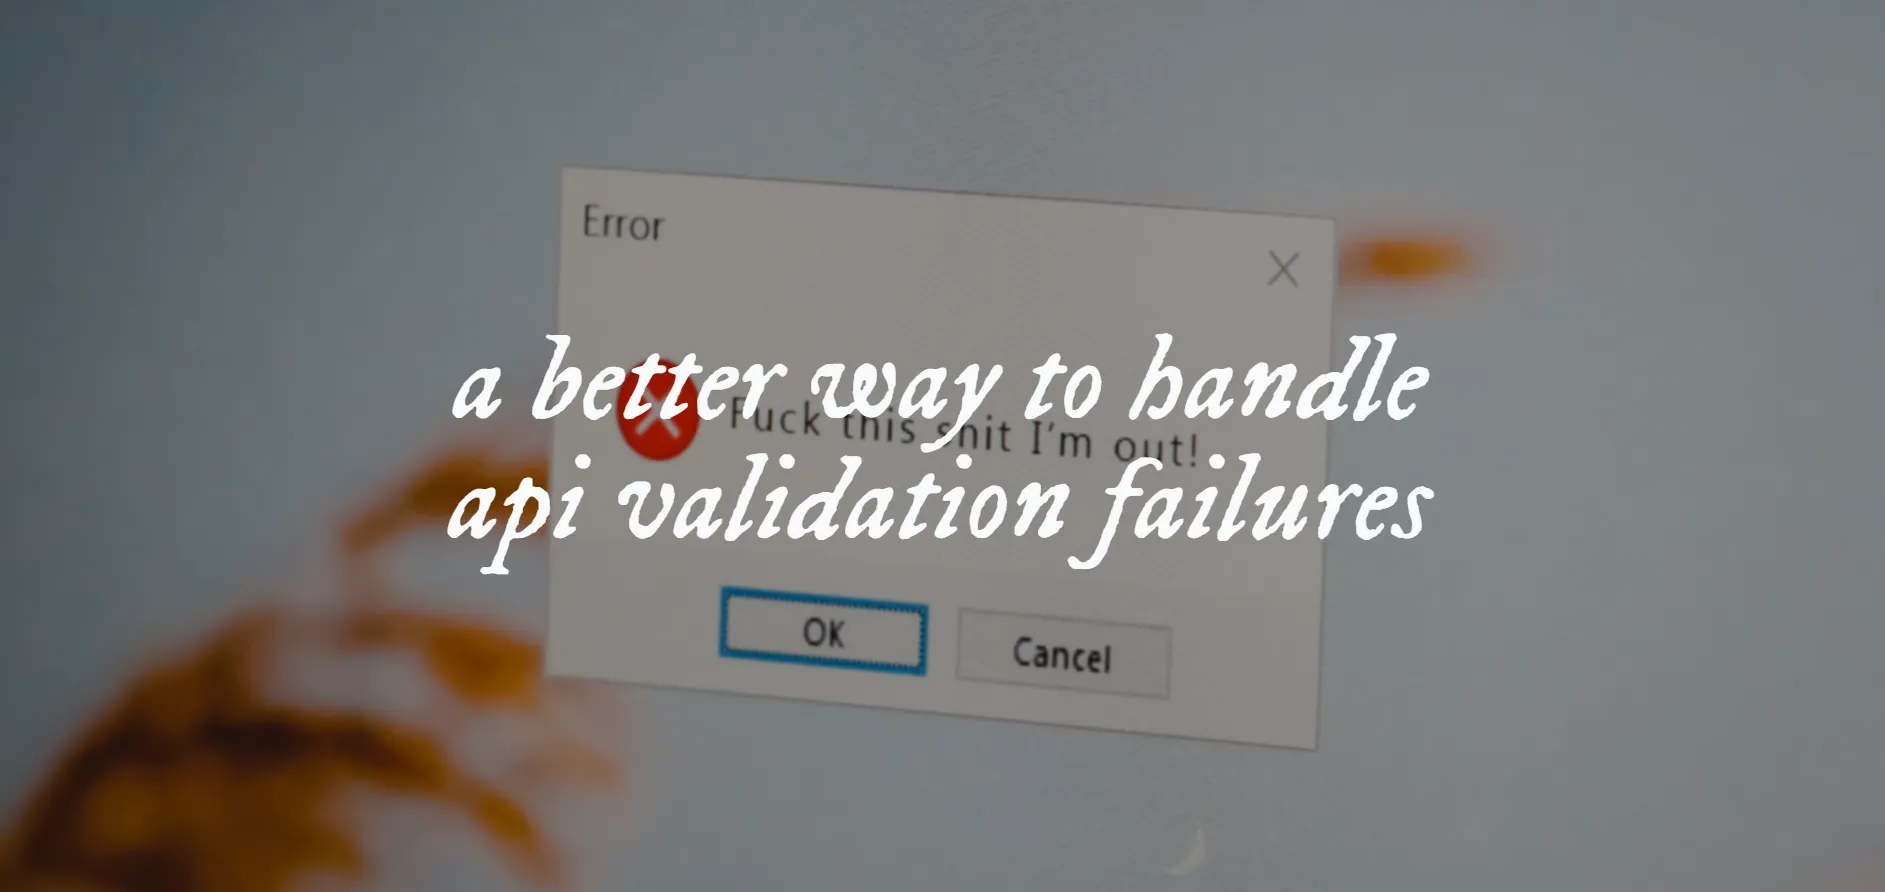
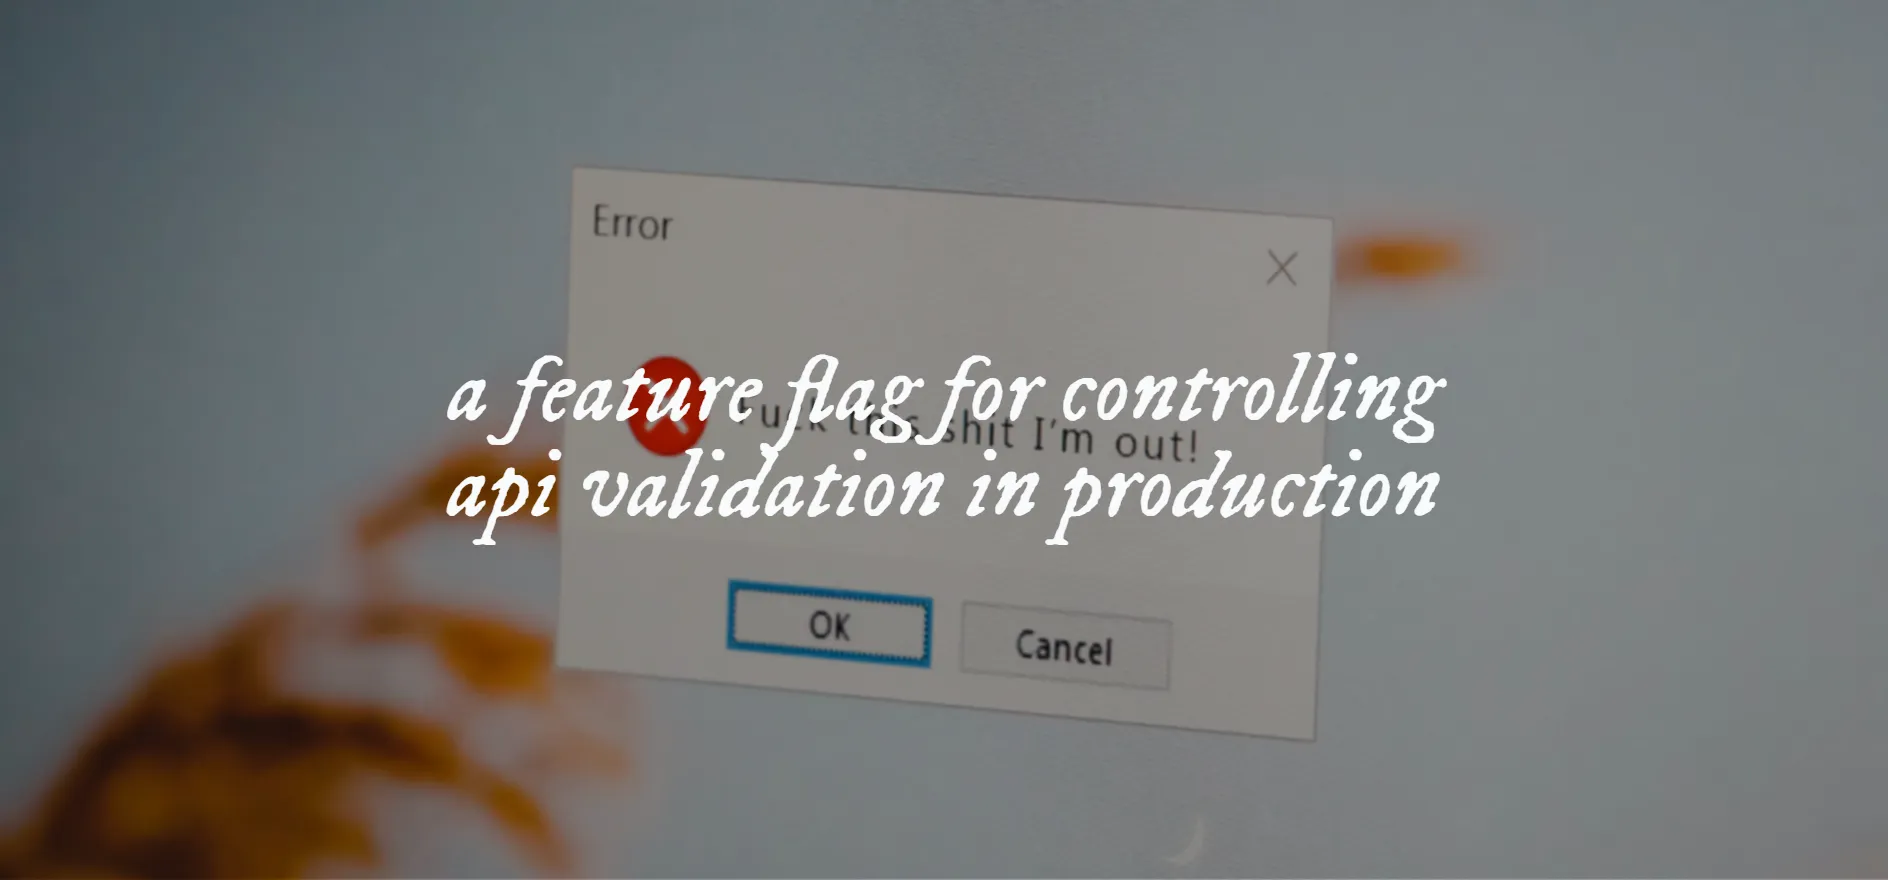
refactor: humanize and improve seo of some blogs

diff --git a/src/contents/blog/better-api-validation-failure-handling.md b/src/contents/blog/better-api-validation-failure-handling.md
@@ -1,16 +1,16 @@
 ---
-title: A Better Way to Handle API Validation Failures
+title: A Feature Flag for Controlling API Validation in Production
 image: ./images/better-api-validation-failure-handling.webp
-imageCaption: An image with the text "how a feature flag saved our api response validation"
+imageCaption: An image with the text "a feature flag for controlling api validation in production"
 imageCredit: Nong
 imageLink: https://unsplash.com/photos/a-close-up-of-a-computer-screen-with-a-sign-on-it-O_Xy25Dj7Mo
 description: One feature flag saved our team from production errors and midnight wake-ups
-metaDescription: How a simple feature flag helped us control API validation, prevent Zod errors in production, unblock clients instantly, and stop overnight wake-ups for trivial fixes.
+metaDescription: A simple feature flag to soft-disable API validation in production, unblock clients from Zod errors instantly, and avoid overnight wake-ups over trivial contract mismatches.
 publishedAt: 2025-12-10T14:42:30.714Z
 status: published
 ---
 
-API response validation sounds straightforward until it breaks in production at 3 AM. This is the story of how a simple feature flag saved my team from API validation errors, contract drift, and unnecessary midnight on-calls.
+API response validation sounds straightforward until it breaks in production at 3 AM. A simple feature flag is how my team stopped losing sleep over it.
 
 ## Building our frontend and the need for validation
 
@@ -18,7 +18,7 @@ In our frontend application, almost every API request targets our own internal b
 
 As the system grew, we introduced a new workflow that combined [Zod](https://zod.dev/) with a custom code generation tool. Instead of hand-maintaining io-ts schemas, the generator produced Zod schemas, data models, and API call functions all at once. 
 
-Moving to Zod and adopting codegen happened together, giving us cleaner types, more reliable validation, and a data layer that scaled without the constant risk of drifting out of sync. Or so we thought.
+Moving to Zod and adopting codegen happened together. The schemas were cleaner, easier to keep in sync, and we stopped hand-maintaining io-ts types. That mostly held up.
 
 ## When strict validation becomes a real problem
 
@@ -26,9 +26,7 @@ Zod is great, but strict validation has a dark side. Whenever the backend return
 
 Sometimes this was correct. Incorrect data can cause UI crashes or break interaction flows. But other times the issue was trivial. For example, one API contract defined `id`, `email`, and `updatedAt` as required strings. If the backend returned `updatedAt` as `null` for some edge case, the entire response was treated as invalid even though the UI only needed `id` and `email`.
 
-In development, this was not a big deal. We just fixed it, created a PR, merged to master, and moved on.
-
-In production, it was a different story.
+In development, this was easy to deal with. Fix it, open a PR, merge, move on. Production was a different situation entirely.
 
 ## A midnight incident that should not have been an incident
 
@@ -36,7 +34,7 @@ One of our clients is in a different timezone. While it was daytime for them in 
 
 LiveOps team on shift called me in the middle of the night. I checked the issue and the fix was literally a one line change. But deploying that fix to the client environment required a hotfix process that was much longer than a normal PR.
 
-This was not the first time it happened. The pattern was always the same. A tiny contract mismatch. A harmless backend quirk. A strict Zod validation. A blocked client. And someone on the engineering team losing sleep.
+This was not the first time. It was always the same sequence: a tiny contract mismatch, Zod fails hard, the client is blocked, and someone on the engineering team loses sleep over it.
 
 Something had to change.
 
@@ -44,11 +42,11 @@ Something had to change.
 
 Our application already had a feature flag system. Different clients have different needs, and we use feature flags to toggle features for specific customers. These flags are editable directly in the app and only our internal team can access them.
 
-So the idea hit me. What if API response validation itself could be toggled with a feature flag? If the flag is on, we validate as usual. If the flag is off, we skip validation and let the UI render whatever it can. This would not replace proper fixes, but it would give us a safety net.
+So the idea hit me. What if API response validation itself could be toggled with a feature flag? If the flag is on, we validate as usual. If the flag is off, we skip validation and let the UI render whatever it can. It would not replace proper fixes. It would just give us room to breathe.
 
-If a client encounters a Zod error, LiveOps can flip a switch and instantly unblock them. No emergency patch. No waking engineers in the middle of the night. No waiting for a hotfix pipeline.
+If a client encounters a Zod error, LiveOps can flip a switch and instantly unblock them without filing an emergency patch or waking anyone up.
 
-I tested the idea in our dev environment and it worked perfectly.
+I tested the idea in our dev environment and it worked.
 
 ## Operationalizing the safety net
 
@@ -60,11 +58,11 @@ To make this useful, I wrote a runbook for our team. It explains what to do when
 - If the UI is correct and stable, escalate the issue normally during work hours.
 - If the UI misbehaves without validation, escalate immediately to the responsible engineer.
 
-This simple change turned validation into a safety net instead of a hard wall.
+With this in place, a validation failure no longer had to block a client until a hotfix was deployed.
 
 ## How the validation flag actually works
 
-In practice, the validation flag is not read from a static constant. Instead, it lives inside our SDK configuration and is evaluated every time we make a request.
+In practice, the validation flag is not read from a static constant. Instead, it lives inside our SDK configuration and the SDK re-evaluates it on every request.
 
 ```javascript
 const sdk = {
@@ -79,7 +77,7 @@ const sdk = {
 }
 ```
 
-The important detail is that `config` is a function. Calling `sdk.config()` re-evaluates `useValidation` on every request, which means the flag is always up to date. If we had defined this as a plain constant, the value would only be read once on initial load, and changing the flag later would have had no effect.
+`config` being a function is what makes this work. Calling `sdk.config()` re-evaluates `useValidation` on every request, which means the flag is always up to date. If we had defined this as a plain constant, the value would only be read once on initial load, and changing the flag later would have had no effect.
 
 We also keep this logic out of the generated API layer. All API utilities are produced by codegen, and we intentionally avoid embedding feature flag logic there. That logic lives outside codegen and changes more frequently, while generated code should stay stable.
 
@@ -106,7 +104,7 @@ async function fetchWithOptionalValidation(fetcher, schema) {
 
 ## Keeping the flag in sync
 
-To make this reliable, we also keep the validation flag in sync with the rest of the app. Feature flags are fetched from the backend and stored in application state, but we additionally mirror the validation flag into `localStorage`.
+To make this reliable, we also keep the validation flag in sync with the rest of the app. Feature flags are fetched from the backend and stored in application state, but we also mirror the validation flag into `localStorage`.
 
 When a flag is updated manually, we update `localStorage` immediately.
 
@@ -135,6 +133,4 @@ When `getFlags` runs on page load, `localStorage` is updated as well. This preve
 
 Since adopting this approach, we have not had to wake anyone up at night to deal with trivial validation failures. Minor contract mismatches no longer block clients, and our LiveOps team has a safe and immediate way to mitigate incidents.
 
-Validation is still there when we need it. It is simply no longer a hard wall.
-
-Sometimes the most effective engineering solutions are not about adding more correctness, but about adding control.
+Validation is still in place when we need it. Now it can also be turned off without a deployment.

diff --git a/src/contents/blog/astro-reading-time.md b/src/contents/blog/astro-reading-time.md
@@ -4,17 +4,15 @@ image: ./images/astro-reading-time.webp
 imageCaption: An image with the text "display estimated reading time in astro blog posts"
 imageCredit: Callum Shaw
 imageLink: https://unsplash.com/photos/gray-laptop-beside-white-teacup-and-book-TLxaYmixZ3k
-description: Add clarity to your content by showing how long each post takes to read
-metaDescription: Enhance your Astro blog with estimated reading times for each post. A lightweight feature that improves readability and user engagement.
+description: Show estimated reading time on your Astro blog using the reading-time package
+metaDescription: Learn how to add estimated reading time to your Astro blog posts using the reading-time npm package. A quick, lightweight setup with no extra dependencies.
 publishedAt: 2024-11-28T14:55:55.043Z
 status: published
 ---
 
-Ever read a blog post on Medium and noticed the small reading time label like "10 min read"? It's a simple feature that enhances the reading experience by setting clear expectations. The good news? You can easily add this functionality to your own [Astro](https://astro.build/)-based blog in just a few steps.
+Medium shows a small "10 min read" label on every post. It's a simple touch that sets expectations before a reader commits. You can add the same thing to your [Astro](https://astro.build/) blog using the `reading-time` package. It takes maybe ten minutes to wire up.
 
-In this blog, we'll walk through how to display an estimated reading time using the `reading-time` package in an Astro project.
-
-## What You'll Need
+## What you'll need
 
 This tutorial assumes you're already comfortable with:
 
@@ -25,7 +23,7 @@ If you're new to Astro, check out their official [getting started guide](https:/
 
 ## Steps
 
-### Install the Reading Time Package
+### Install the reading-time package
 
 Run the following command in your project directory:
 
@@ -33,9 +31,7 @@ Run the following command in your project directory:
 npm install reading-time
 ```
 
-### Create a Utility Function
-
-Create a utility function to calculate reading time from the raw blog content.
+### Create a utility function
 
 ```ts
 // src/utils/readingTime.ts
@@ -49,9 +45,7 @@ export const getReadingTime = (content: string) => {
 
 This function returns a string like "3 min read" or "Less than 1 min read" based on content length.
 
-### Use It Inside Your Layout
-
-In your blog layout component, call the utility and pass in the raw Markdown content.
+### Use it inside your layout
 
 ```astro title="src/layouts/Blog.astro"
 ---
@@ -79,11 +73,11 @@ const { title, author, date } = frontmatter
 </article>
 ```
 
-`rawContent` contains the Markdown source of the blog post and is used here to compute the reading time dynamically.
+`rawContent` is the Markdown source of the post. The utility reads it to compute the estimate.
 
 ## Example
 
-Let's say you have the following blog post:
+Given this post:
 
 <!-- prettier-ignore -->
 ```md wrap
@@ -113,16 +107,6 @@ The rendered HTML will look like:
 </article>
 ```
 
-## Why Add a Reading Time Estimator?
+## Worth adding?
 
-Adding an estimated reading time:
-
-- Improves UX by setting expectations
-- Boosts engagement, especially for mobile readers
-- Adds polish to your blog layout with minimal effort
-
-Whether your posts are short updates or long-form tutorials, it's a small feature that creates a more reader-friendly experience.
-
-## Conclusion
-
-By using a simple utility and the `reading-time` package, you can quickly implement a reading time indicator for any Markdown blog post in Astro. It's a lightweight addition that adds real value for your readers.
+Reading time sets expectations before someone commits to a post, which tends to reduce bounce for longer content. For short posts it's a nice-to-have; for long-form tutorials it actually matters. Either way, the `reading-time` package is lightweight. It runs at build time, so there's no extra cost at runtime.

diff --git a/src/contents/blog/blogspot-to-technical-blog.md b/src/contents/blog/blogspot-to-technical-blog.md
@@ -1,0 +1,35 @@
+---
+title: From cringy Blogspot posts to a technical blog
+image: ./images/blogspot-to-technical-blog.webp
+imageCaption: 'An image with the text "from cringy Blogspot posts to a technical blog"'
+imageCredit: Wahyu Pratama
+imageLink: https://unsplash.com/photos/jco-signage-Ps6OvCkHSlM
+description: I stopped blogging like a middle schooler
+metaDescription: A frontend developer reflects on years of blogging, from early Blogspot experiments and cringy copy-paste posts to building a modern tech blog with Astro.
+publishedAt: 2024-04-14T08:56:39.248Z
+status: published
+---
+
+## Phase 1: Junior high (discovering blogging and adding too many widgets)
+
+My very first exposure to blogging came during an IT class in junior high school. We were assigned to create personal blogs using Blogspot to introduce ourselves. I started with a basic template and posted a simple intro just to fulfill the assignment. But when I saw my friends customizing their blogs with flashy anime themes like Naruto, I couldn't help but join in.
+
+Before long, my blog was filled with quirky add-ons: visitor counters, spinning text that followed the cursor, autoplaying music, and other nostalgic 2000s internet chaos. Looking back, it makes me cringe, but at the time, it felt cool and creative.
+
+I published a lot of blog posts back then, though none were original. Most of them were copy-pasted trivia from Wikipedia. In hindsight, it wasn't exactly a proud start to my blogging journey. Eventually, I deleted that blog entirely.
+
+## Phase 2: College (sharing my voice)
+
+I stopped blogging in my final year of junior high and didn't return to it until I started college. During my freshman year, I became a social media admin for a student organization. Although the content was usually provided by teammates or sourced externally, I handled the design and publishing process.
+
+That experience sparked a desire to write and share my own thoughts. At the time, LINE was a popular platform among students, and it featured a feed feature. I started publishing my personal writings there.
+
+Later, I migrated my content to WordPress, a platform I felt more familiar with. While I was proud of some of the things I wrote, I also ended up oversharing personal details that, in retrospect, should've stayed private. Once again, I deleted it.
+
+## Phase 3: Now (blogging with purpose)
+
+As a frontend engineer, I've stopped using third-party platforms. I built this blog with [Astro](https://astro.build/), partly because I wanted something I actually understood and could shape, and partly because building it was more interesting than writing in it.
+
+The posts I write now are mostly technical: things I figured out at work, things I wanted documented somewhere, the occasional project breakdown. I still write personal stuff occasionally, but I'm less likely to overshare knowing it'll still be sitting there in ten years.
+
+I can't promise this version won't embarrass future me. But at least I own the codebase.

diff --git a/src/contents/blog/dynamic-import-avoid-bundle-redownload-on-redirect.md b/src/contents/blog/dynamic-import-avoid-bundle-redownload-on-redirect.md
@@ -56,7 +56,7 @@ On a normal login, the user starts at no subdomain and gets redirected once. Tha
 The redirect logic doesn't need to live inside `SessionManager`. More importantly, it doesn't need the entire app to be loaded before it runs. So I moved it out.
 
 ```js
-// entry file
+// main.ts
 const didRedirect = resolveRedirection()
 if (!didRedirect) {
   const { mountApp } = await import('./mountApp')
